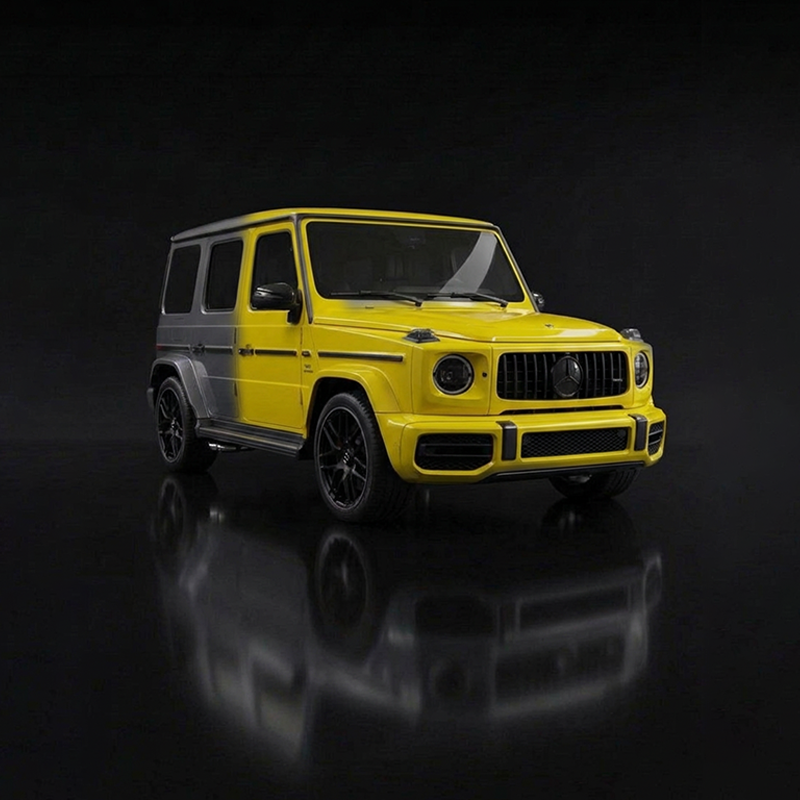
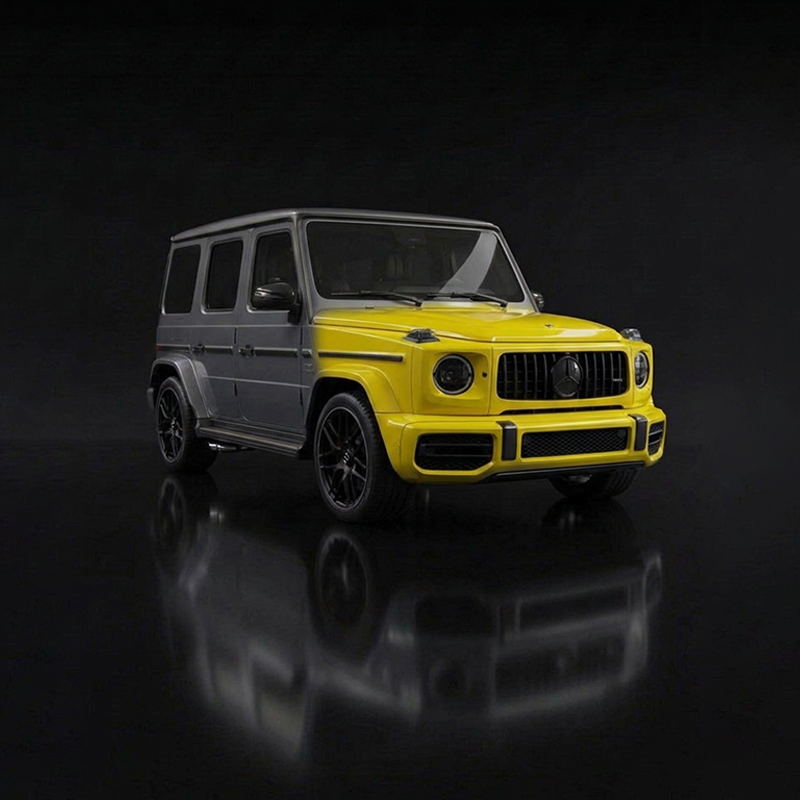
Map new CARS coverage photos to booking services
- ppf-partial: s1/b1, ppf-partial-rear: s2/b2, ppf-front: s2/b2
- ppf-front-rear: s3/b3, ppf-clear75/85: s4/B4
- ppf-matte: s55/b55 (own images), ppf-color: s666/b66
- Windshield, tint, ceramic: no coverage image (use photo fallback)

Changed region(s): [[0.2812, 0.25, 0.625, 0.5625], [0.5938, 0.3125, 0.6875, 0.4062], [0.7812, 0.4062, 0.8125, 0.4375]]

diff --git a/src/components/Booking.tsx b/src/components/Booking.tsx
@@ -148,7 +148,7 @@ export default function Booking() {
     { id: "ppf-color", cat: "ppf", name: t.booking.svcPpfColor, p: sp("ppf-color", { small: 16500, large: 18500 }), w: "5yr", img: "/images/DSC03279.jpg", imgSmall: "/images/ppf-color-small.png", imgLarge: "/images/ppf-color-large.png", addonTier: "high", parts: [t.booking.fullBody] },
     { id: "ppf-clear75", cat: "ppf", name: t.booking.svcPpfClear75, p: sp("ppf-clear75", { small: 12000, large: 14500 }), w: "10yr", img: "/images/DSC03292.jpg", imgSmall: "/images/ppf-fullbody-small.png", imgLarge: "/images/ppf-fullbody-large.png", addonTier: "low", parts: [t.booking.fullBody] },
     { id: "ppf-clear85", cat: "ppf", name: t.booking.svcPpfClear85, p: sp("ppf-clear85", { small: 14000, large: 15500 }), w: "10yr", img: "/images/DSC03235.jpg", imgSmall: "/images/ppf-fullbody-small.png", imgLarge: "/images/ppf-fullbody-large.png", addonTier: "low", parts: [t.booking.fullBody], popular: true },
-    { id: "ppf-matte", cat: "ppf", name: t.booking.svcPpfMatte, p: sp("ppf-matte", { small: 13450, large: 15450 }), w: "10yr", img: "/images/DSC03064.jpg", imgSmall: "/images/ppf-fullbody-small.png", imgLarge: "/images/ppf-fullbody-large.png", addonTier: "low", parts: [t.booking.fullBody] },
+    { id: "ppf-matte", cat: "ppf", name: t.booking.svcPpfMatte, p: sp("ppf-matte", { small: 13450, large: 15450 }), w: "10yr", img: "/images/DSC03064.jpg", imgSmall: "/images/ppf-matte-small.png", imgLarge: "/images/ppf-matte-large.png", addonTier: "low", parts: [t.booking.fullBody] },
     { id: "ppf-front-rear", cat: "ppf", name: t.booking.svcPpfFrontRear, p: sp("ppf-front-rear", { small: 4770, large: 5500 }), w: "10yr", img: "/images/DSC03279.jpg", imgSmall: "/images/ppf-front-rear-small.png", imgLarge: "/images/ppf-front-rear-large.png", addonTier: "high",
       parts: [t.booking.fullHood, t.booking.fullFenders, t.booking.frontBumper, t.booking.frontLights, t.booking.sideMirrors, t.booking.frontPillars, t.booking.doorEdges, t.booking.rearBumper] },
     { id: "ppf-front", cat: "ppf", name: t.booking.svcPpfFront, p: sp("ppf-front", { small: 3660, large: 5600 }), w: "10yr", img: "/images/DSC03292.jpg", imgSmall: "/images/ppf-front-small.png", imgLarge: "/images/ppf-front-large.png", addonTier: "high",
@@ -157,7 +157,7 @@ export default function Booking() {
       parts: [t.booking.halfHood, t.booking.halfFenders, t.booking.frontBumper, t.booking.frontLights, t.booking.sideMirrors, t.booking.frontPillars, t.booking.doorEdges, t.booking.rearBumper] },
     { id: "ppf-partial", cat: "ppf", name: t.booking.svcPpfPartial, p: sp("ppf-partial", { small: 1850, large: 2900 }), w: "10yr", img: "/images/DSC03064.jpg", imgSmall: "/images/ppf-partial-small.png", imgLarge: "/images/ppf-partial-large.png", addonTier: "low",
       parts: [t.booking.halfHood, t.booking.halfFenders, t.booking.frontBumper, t.booking.frontLights, t.booking.sideMirrors, t.booking.frontPillars, t.booking.doorEdges] },
-    { id: "ppf-windshield", cat: "ppf", name: t.booking.svcPpfWindshield, p: sp("ppf-windshield", { small: 1000, large: 1000 }), w: "10yr", img: "/images/DSC03174.jpg", imgSmall: "/images/ppf-front-small.png", imgLarge: "/images/ppf-front-large.png", addonTier: "low", parts: [t.booking.frontWindshield] },
+    { id: "ppf-windshield", cat: "ppf", name: t.booking.svcPpfWindshield, p: sp("ppf-windshield", { small: 1000, large: 1000 }), w: "10yr", img: "/images/DSC03174.jpg", addonTier: "low", parts: [t.booking.frontWindshield] },
     { id: "tint-full", cat: "tint", name: t.booking.svcTintFull, p: sp("tint-full", { small: 2400, large: 2800 }), w: "10yr", img: "/images/DSC03136.jpg", addonTier: "low", parts: [t.booking.allGlass], popular: true },
     { id: "tint-front", cat: "tint", name: t.booking.svcTintFront, p: sp("tint-front", { small: 1160, large: 1300 }), w: "10yr", img: "/images/DSC03174.jpg", addonTier: "high", parts: [t.booking.frontWindshield] },
     { id: "ceramic-int-1", cat: "ceramic", name: t.booking.svcCeramicInt1, p: sp("ceramic-int-1", { small: 2300, large: 2500 }), w: "1yr", img: "/images/DSC02995.jpg", addonTier: "low", parts: [t.booking.interiorSurfaces] },
